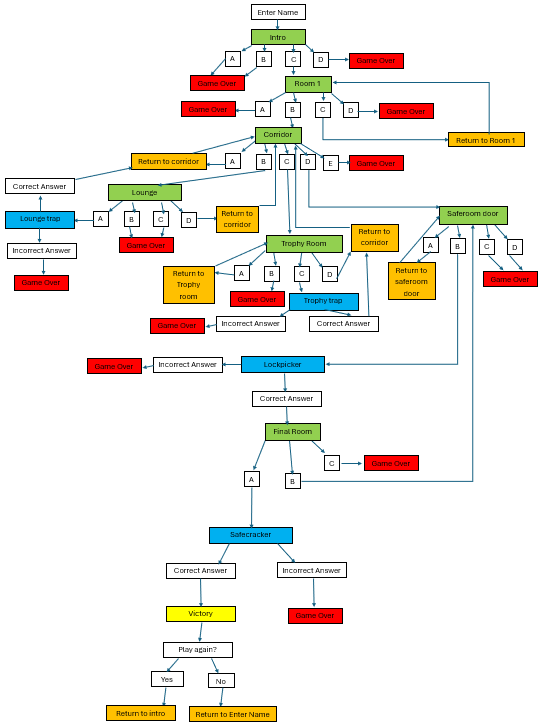
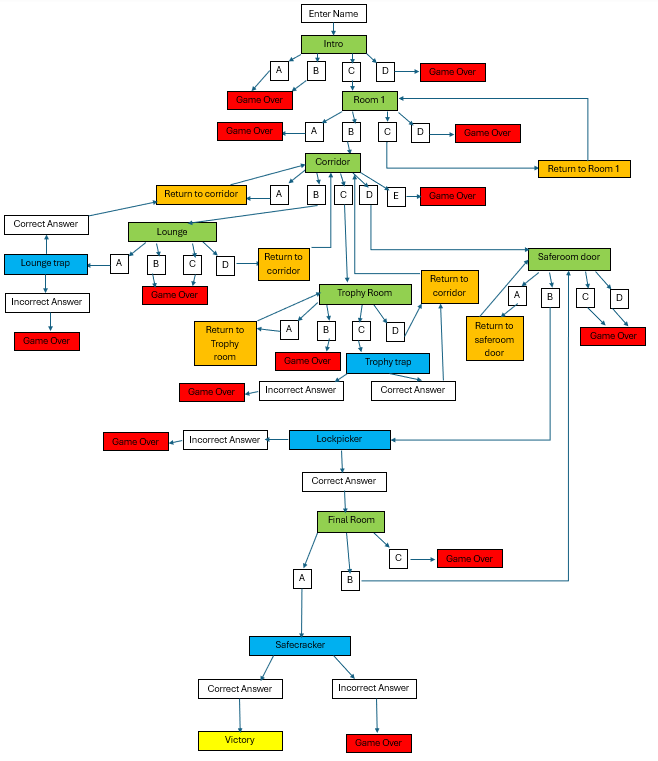
update readme

Changed region(s): [[0.0, 0.0, 1.0, 1.0]]

diff --git a/README.md b/README.md
@@ -1,14 +1,14 @@
 # Word Burglar
-Word Burglar is a text-based "choose your own adventure" style game where the player chooses what actions they will take in order to pull off a burglary. This game would be well suited to fans of "choose your own adventure" style books, fans of older text based games, or any person looking for a short gaming experience with some replayability.
+Word Burglar is a text-based "choose your own adventure" style game where the player chooses what actions they will take in order to pull off a burglary. This game would be well suited to fans of "choose your own adventure" style books, fans of older text-based games, or any person looking for a short gaming experience with some replayability.
 
 ## Planning
 When planning project 3 I decided I wanted to make a game using python. Given graphics and imagery would not play a significant part in this project, I decided that a text-based game was the best fit.
 
-This decided, I worked out a binary tree which would detail the possible player choices and the outcome each would produce. On a game over in the below chart, the player is presented with the option to play again, which takes them back to the intro scene, or not, which brings them back to the enter name screen.
+This decided, I worked out a binary tree which would detail the possible player choices and the outcome each would produce.
 
-![Game binary tree](assets/readme-images/image.png)
+![Binary tree](assets/readme-images/image-1.png)
 
-This diagram provided a way to structure the project such that there were no dead ends. Regardless of what they player does, they are able to continue until they hit a game over or win the game. On victory, they are presented again with the option to play again, as 2 of the rooms are optional, and a first time player may not have experienced them.
+This diagram provided a way to structure the project such that there were no dead ends. Regardless of what they player does, they are able to continue until they hit a game over or win the game. On a game over, they can restart from the beginning of the game.
 
 ## Gameplay
 On starting the program, the player is presented with the following:
@@ -31,28 +31,28 @@ They can alternatively go to the trophy room, which presents a different puzzle.
 
 ![Trophy trap](assets/readme-images/image-5.png)
 
-In both of the above challenges, the player can answer how they wish, including with numbers or by submitting an empty answer. I deemed this to make more sense "in game" as a person in such situations may become flustered and unable to answer. 
+In both of the above challenges, the player can answer how they wish, including with numbers or by submitting an empty answer. I deemed this to make more sense "in game" as a person in such situations may become flustered and unable to answer. It also adds replayability as the player can see multiple outcomes. 
 
 Finally there are the game's required challenges. The optional ones will end the game instantly if failed, but the player may enter several wrong answers in these and still pass, as they are required for completion.
 
-The first of these is a lockpicking minigame, where the player decides on which direction to move a lockpick to open a door. They are informed on starting that if they enter 3 wrong answers they will fail. They are updated on their number of remaining chances after each failure, and provided a hint to solve the puzzle
+The first of these is a lockpicking minigame, where the player decides on which direction to move a lockpick to open a door. They are informed on starting that if they enter 3 wrong answers they will fail. They are updated on their number of remaining chances after each failure, and provided a hint to solve the puzzle. If a wrong choice is entered, they must begin the sequence again.
 
 ![Lockpicker](assets/readme-images/image-6.png)
 
-The second required puzzle is a safecracking minigame. This uses a list comprehension combined with random sampling to generate a 3 digit code for the save using the numbers 0-3. Initially I had planned to use the numbers 1 - 10, but this proved too difficult to solve with luck alone. As with the lock picking game, they have a limited number of attemps to solve the puzzle.
+The second required puzzle is a safecracking minigame. This uses a list comprehension combined with random sampling to generate a 3 digit code for the save using the numbers 0-3. Initially I had planned to use the numbers 1 - 10, but this proved too difficult to solve with luck alone. As with the lock picking game, they have a limited number of attempts to solve the puzzle, and must restart on a wrong answer.
 
 ![Safecracker](assets/readme-images/image-7.png)
 
 On beating it, they are presented with a victory message:
-![Safecracker](assets/readme-images/image-8.png)
+![Victory message](assets/readme-images/image-8.png)
 
 ### Unimplemented features
-I wanted to insert ascii art of a book, as the games victory message. I also wanted to implement a function to clear the screen after making a choice as it can look cluttered which affects readability.
+I wanted to insert ascii art of a book, as the games victory message. I also wanted to implement a function to clear the screen after making a choice as it can look cluttered which affects readability. Due to time constraints I was unable to do these.
 
 ## Technology Used
 
 Python was used to create the program.
-Heroku was used for Deployment and hosting.
+Heroku was used for deployment and hosting.
 Github was used to store code.
 Gitpod was used to write the code.
 Git was used for version control.
@@ -139,7 +139,7 @@ The code was tested using a pep8 linter for compliance, no issues were found:
 
 ## Bugs
 
-A bug arose with the function to show choices for the first room where the wrong choice still progressed the game. Re examination of the code revealed that the if statement had been phrased wrongly and the calls for the next function attached to each choice. were corrected, which resolved the issue. 
+A bug arose with the function to show choices for the first room where the wrong choice still progressed the game. Re-examination of the code revealed that the if statement had been phrased wrongly, and the calls for the next function attached to each choice. were corrected, which resolved the issue. 
 
 A bug arose also with the possibility of the player attempting to input a choice that doesn't represent one of the options, as this could create a dead end. Nesting the choices inside a while loop resolved the issue.
 
@@ -156,9 +156,9 @@ A bug arose in that some functions continued to run after the game had ended, an
 Submitting an empty entry or a letter into safecracker initially caused the game to crash. This was solved by nesting the inputs within a try except statement to check for value errors. A similar issue happened with lockpicker. The code was refactored to work along the same lines as safecracker, which resolved the issue.
 
 ## Deployment
-Log in to heroku.com, using an authenticor app where necessary.
+Log in to heroku.com, using an authenticator app where necessary.
 
-Clock on the "New" dropdown in the top right and select new app
+Clock on the "New" dropdown in the top right and select new app.
 
 Name the app. This name must be unique. Choose your region and click "Create app".
 
@@ -176,7 +176,7 @@ Where you see "Deployment method" on the left, click on Github to connect your g
 
 Search for your repository be name, select it and connect.
 
-Here automatic deplyoment can be enabled, meaning heroku will rebuild the app on each push to github.
+Here automatic deployment can be enabled, meaning heroku will rebuild the app on each push to github.
 
 Choose the main branch to deploy from and enable automatic deployment.
 
@@ -187,14 +187,13 @@ Click deploy.
 The program can now ben viewed with the open app button in the top right.
 
 ## Credits
-Fixes:
 The below was used to assist in writing if statements that would accept correct inputs of any case:
 https://www.reddit.com/r/learnpython/comments/u9ts2r/python_ignoring_my_elif_statement/
 
 The below was used to implement the while loop feature to restart a given choice if an invalid option was entered:
 https://stackoverflow.com/questions/64070816/how-to-restart-a-loop-if-the-input-is-wrong
 
-This was used to help scramble the answer in trophy_trap()
+This was used to help write the logic to scramble the answer in trophy_trap()
 https://www.youtube.com/watch?v=vtjLxNU6eyk
 
 This was used to help figure out the logic for safecracker():
